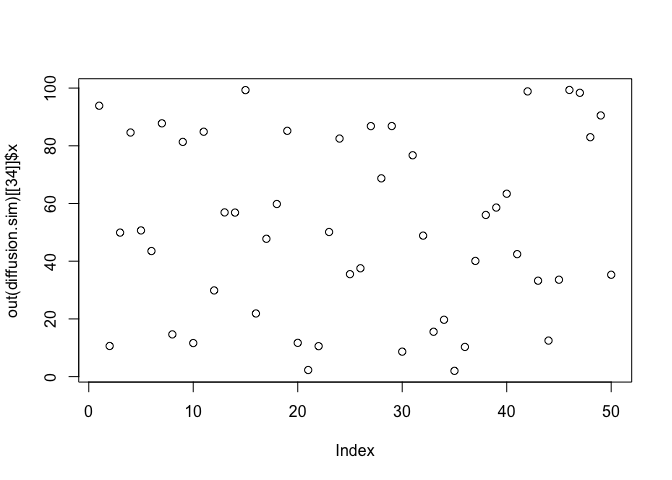
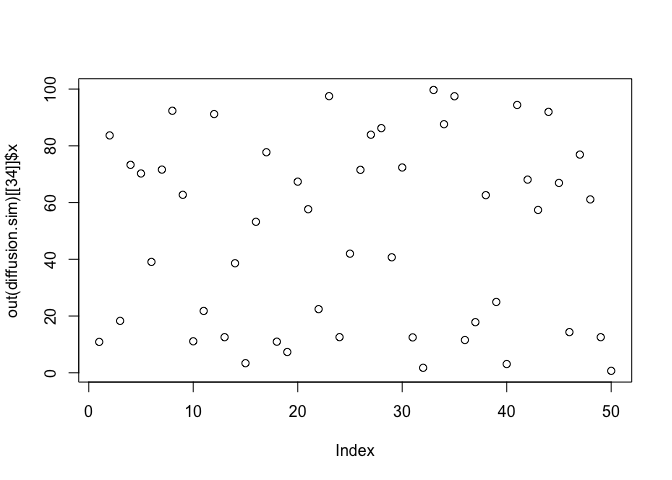
rw

diff --git a/XY-molecular-diffusion/mol-diffusion.md b/XY-molecular-diffusion/mol-diffusion.md
@@ -1,4 +1,4 @@
-simecol XY molecular diffusion
+simecol XY molecular diffusion (random walk)
 ================
 
 ``` r
@@ -64,14 +64,14 @@ diffusion.sim <- sim(diffusion.model)
 out(diffusion.sim)[[34]]$x
 ```
 
-    ##  [1] 93.887670 10.614102 49.914438 84.602027 50.668672 43.520630 87.788387
-    ##  [8] 14.634977 81.345105 11.628150 84.876890 29.873780 56.909006 56.852900
-    ## [15] 99.298494 21.884205 47.773810 59.824620 85.189612 11.697517  2.288108
-    ## [22] 10.557604 50.122237 82.507512 35.515871 37.549386 86.823027 68.719596
-    ## [29] 86.843920  8.651570 76.718315 48.862886 15.548280 19.699804  1.999067
-    ## [36] 10.284221 40.095458 56.028157 58.592138 63.385752 42.450926 98.852328
-    ## [43] 33.239701 12.485594 33.581065 99.352732 98.360780 82.978939 90.517080
-    ## [50] 35.300606
+    ##  [1] 10.885741 83.669403 18.296181 73.294348 70.254538 39.084972 71.612993
+    ##  [8] 92.359621 62.731695 11.097747 21.794119 91.197294 12.543727 38.609391
+    ## [15]  3.379766 53.214167 77.734893 10.958748  7.319485 67.367878 57.653159
+    ## [22] 22.434465 97.511995 12.560244 41.980000 71.533695 83.913634 86.232083
+    ## [29] 40.712220 72.364760 12.469860  1.752888 99.692449 87.625889 97.472081
+    ## [36] 11.545896 17.837459 62.613281 24.962542  3.078355 94.400277 68.085612
+    ## [43] 57.393664 91.967703 66.916186 14.335474 76.902257 61.111829 12.549573
+    ## [50]  0.679925
 
 ``` r
 plot(out(diffusion.sim)[[34]]$x)
@@ -120,12 +120,12 @@ head(points.df)
 ```
 
     ##    vectorX  vectorY rowNum
-    ## 1 93.88767 64.02074      1
-    ## 2 10.61410 54.78129      2
-    ## 3 49.91444 39.57435      3
-    ## 4 84.60203 60.08201      4
-    ## 5 50.66867 37.61715      5
-    ## 6 43.52063 49.71639      6
+    ## 1 10.88574 34.17376      1
+    ## 2 83.66940 86.78902      2
+    ## 3 18.29618 27.53370      3
+    ## 4 73.29435 79.99880      4
+    ## 5 70.25454 56.44146      5
+    ## 6 39.08497 93.04567      6
 
 ``` r
 plotupca(points.df, type="S3")
@@ -180,57 +180,57 @@ head(out(diffusion.sim)[22])
 ```
 
     ## [[1]]
-    ##             x         y         a
-    ## 1  92.8115279 67.150185  443.5656
-    ## 2  10.8653389 54.946450 1358.6927
-    ## 3  51.4662467 41.413291  428.2955
-    ## 4  84.0789899 64.120766  483.9750
-    ## 5  52.7074696 36.738631 2311.4928
-    ## 6  43.5467842 49.032087  906.1624
-    ## 7  89.5410501 30.587882  934.9430
-    ## 8  18.4311573 88.240979  982.5159
-    ## 9  84.6153810 11.142358  488.3203
-    ## 10 14.4464597  1.073512  507.9831
-    ## 11 84.6753262 53.480507  303.0330
-    ## 12 27.3513386 36.507664  776.6470
-    ## 13 58.3494165 30.191982 3250.6291
-    ## 14 55.9536309 71.762441  822.3425
-    ## 15 97.3601460 60.368580  509.9457
-    ## 16 24.5201514 88.279189  432.0262
-    ## 17 50.1247597 71.808527  796.7831
-    ## 18 60.6128069 45.070463  409.9196
-    ## 19 89.2309123 80.133455  616.7629
-    ## 20  9.0869936 24.954402 1798.3477
-    ## 21  3.5835587 68.563317  743.6242
-    ## 22  9.1197251 37.226506  616.7164
-    ## 23 50.4390215 16.398470 5045.8276
-    ## 24 81.3194881 33.996256  302.9749
-    ## 25 38.8653830  6.679220  363.0609
-    ## 26 33.9852919 92.608813  667.7487
-    ## 27 85.4216799 30.167609  773.2242
-    ## 28 65.0577457 14.634646  975.7745
-    ## 29 86.6061390 45.455655  612.3818
-    ## 30  9.5323980 32.072055  873.9226
-    ## 31 79.5251395 85.021567  480.6738
-    ## 32 46.7721454 11.273779  647.4037
-    ## 33 15.1072186 51.265708  513.6387
-    ## 34 22.4909776  1.192019 2080.8587
-    ## 35  1.7855618 52.356964  969.9898
-    ## 36  7.8744096 93.088286  676.4735
-    ## 37 39.3555113 54.162307 1225.1265
-    ## 38 58.8689360 70.690836  540.6730
-    ## 39 58.7794138 35.341709  573.0985
-    ## 40 67.0305046 87.659060  626.3762
-    ## 41 42.0801378 35.413061  260.0677
-    ## 42 98.3625503 50.457942  747.9065
-    ## 43 30.1725710  7.646515  315.7331
-    ## 44 13.0943691 50.384515 1547.3761
-    ## 45 38.7771292 80.270913  775.7924
-    ## 46 97.2460822 25.279540 2009.8684
-    ## 47  0.7734725 27.697393  292.1057
-    ## 48 84.4014991 92.151263  349.8702
-    ## 49 87.0593396 38.960564  947.2335
-    ## 50 34.3313016 77.143566  884.1913
+    ##            x          y           a
+    ## 1   9.904286  38.152910   4460.2538
+    ## 2  86.039838  88.638207    491.6006
+    ## 3  16.473467  25.438553    733.4626
+    ## 4  72.584688  80.103823    421.8601
+    ## 5  73.305582  61.221653    339.5749
+    ## 6  41.672000  92.159517    500.4822
+    ## 7  69.381940  13.957178    651.5095
+    ## 8  92.131543  62.872739    349.2734
+    ## 9  63.055112  32.533073    666.4903
+    ## 10 10.778524  50.269702    376.7374
+    ## 11 23.113349  43.966530    457.0753
+    ## 12 91.691349  48.523113    779.0287
+    ## 13 11.100714  35.694200   1472.8588
+    ## 14 37.166909  96.313340   4199.8139
+    ## 15  2.858997  47.976334   2336.8010
+    ## 16 47.630362   5.069546    350.7921
+    ## 17 83.341325  86.686554    956.8694
+    ## 18 10.215150  51.982006    627.0972
+    ## 19  4.905208  63.385000    575.6021
+    ## 20 69.470302  12.362827   1255.2904
+    ## 21 58.727591  73.699242    499.7505
+    ## 22 22.922085  30.492111    320.8537
+    ## 23 97.422809  92.293818 677998.4484
+    ## 24 13.317590  41.227923    606.2760
+    ## 25 43.491548  21.727839    431.8421
+    ## 26 69.921589  10.091484    461.2886
+    ## 27 83.732071  47.325711    622.8063
+    ## 28 87.923358  83.450409    706.8117
+    ## 29 40.891840  44.530141   2576.3925
+    ## 30 71.054676  50.707806    720.1488
+    ## 31 11.371174  83.543102   2581.9899
+    ## 32  1.980028  51.852527    623.3055
+    ## 33 99.216681  31.758016    699.7441
+    ## 34 89.045267   1.513541   1417.7442
+    ## 35 96.473925  50.069068    974.3295
+    ## 36 11.783992   2.206031    382.2608
+    ## 37 19.812798  92.780180   1552.3858
+    ## 38 61.950298  93.520303    668.3841
+    ## 39 25.255545  54.635157    371.6589
+    ## 40  3.786678  63.569945    518.8582
+    ## 41 93.263712  44.818077    323.1941
+    ## 42 68.324898  44.913098   1653.7419
+    ## 43 55.359178  18.740780    369.8915
+    ## 44 91.807412  53.484279   1984.6272
+    ## 45 66.741517  20.732597    293.5253
+    ## 46 15.691627   8.811674    711.4888
+    ## 47 74.885948   8.505724    708.6987
+    ## 48 61.295577 100.000000    363.4866
+    ## 49 12.575562   8.959802    355.5578
+    ## 50 99.805539  23.526666   1300.6031
 
 ``` r
 main(diffusion.sim)
@@ -269,57 +269,57 @@ main(diffusion.sim)
 init(diffusion.sim)
 ```
 
-    ##             x          y          a
-    ## 1  96.6837892 72.3802459 3.42343636
-    ## 2   8.0607088 58.6081386 3.61389941
-    ## 3  51.4454911 42.4669673 1.98337057
-    ## 4  85.8473902 60.3399507 3.40249668
-    ## 5  54.2878587 34.2254267 1.18909050
-    ## 6  43.4677323 48.6499865 1.53173188
-    ## 7  91.3518906 30.8777934 4.32273235
-    ## 8  20.1077155 85.9322719 5.62629917
-    ## 9  83.1347034 11.4259902 2.78340979
-    ## 10 13.2921479 97.5707667 4.05222458
-    ## 11 86.2560858 56.0162768 5.96411096
-    ## 12 28.0797262 36.0701595 2.90264475
-    ## 13 63.9330334 28.7136694 1.95902276
-    ## 14 57.1656263 68.9779693 4.02652874
-    ## 15 97.4100678 63.4191709 3.25590990
-    ## 16 25.2565741 89.4130633 6.00782689
-    ## 17 45.3616297 70.3927562 5.42168772
-    ## 18 59.7052652 43.6289638 4.58029143
-    ## 19 89.8344817 78.4480865 3.01281572
-    ## 20  7.7234968 20.6089883 2.71072126
-    ## 21  0.8148355 69.5625964 5.14215171
-    ## 22  7.8262640 39.5963667 2.15026455
-    ## 23 47.4086439 13.6123480 1.03712498
-    ## 24 84.1557111 41.6433571 0.67551695
-    ## 25 38.0682928  4.5200558 5.90220287
-    ## 26 31.1922881 92.0602235 2.07649466
-    ## 27 83.5987012 28.1767989 3.59010329
-    ## 28 67.2457008 11.2168313 0.05093947
-    ## 29 87.8136175 44.2619345 4.67171984
-    ## 30  4.7075144 30.0093229 3.22124266
-    ## 31 80.6597821 83.7301815 0.16150145
-    ## 32 48.5166611 10.5151411 4.64089246
-    ## 33 15.7315961 51.7840460 1.14368047
-    ## 34 21.8465430  3.4258324 0.89511095
-    ## 35  1.9777421 52.6787221 3.33087280
-    ## 36  6.0588924  0.7798484 2.02162670
-    ## 37 38.2010697 54.0751056 1.23432186
-    ## 38 59.1872156 74.1653385 5.80982025
-    ## 39 59.3730047 35.6564952 6.23393914
-    ## 40 77.5786434 87.7060983 4.63226625
-    ## 41 40.9541444 37.7530210 0.81056113
-    ## 42 98.1780624 50.6777092 0.16801869
-    ## 43 25.1719357 11.9921925 0.34476896
-    ## 44 12.6200227 50.2760211 2.27338717
-    ## 45 39.7723149 76.3182758 5.06928632
-    ## 46 95.8416580 25.3483289 2.84385828
-    ## 47  8.5199464 21.2011308 5.71083699
-    ## 48 84.7852051 88.1158848 4.17727152
-    ## 49 91.3550290 41.4858111 2.85136307
-    ## 50 38.2517001 77.5674562 1.68274123
+    ##              x         y          a
+    ## 1  11.51367584 42.343733 3.80553934
+    ## 2  80.41044753 82.087925 0.50471829
+    ## 3  19.52366978 25.800379 2.44874195
+    ## 4  70.92901058 83.219835 5.15400322
+    ## 5  74.38716008 60.071659 2.25078039
+    ## 6  45.42285865 93.222312 3.95235351
+    ## 7  69.29529742 15.106208 0.56040624
+    ## 8  97.35064150 65.854928 5.33685412
+    ## 9  63.72259946 33.004535 5.47427265
+    ## 10 11.74330940 50.291628 1.75540812
+    ## 11 26.45134991 38.704685 0.09382701
+    ## 12 90.77757765 48.568390 6.21585088
+    ## 13 16.94570868 29.518710 5.98024536
+    ## 14 37.11152007 91.364190 4.55094561
+    ## 15  3.14037064 48.633881 3.68534549
+    ## 16 46.78738061  7.763693 0.82107303
+    ## 17 86.48695978 85.624436 4.67180773
+    ## 18 10.90985956 51.381586 3.03460412
+    ## 19  0.05020567 61.425194 3.62198057
+    ## 20 69.69837253  7.639765 0.73166187
+    ## 21 63.80575302 73.970218 2.15707872
+    ## 22 21.23060238 28.433255 2.63912772
+    ## 23 95.40393329 95.420043 4.59189654
+    ## 24 10.93568329 41.478924 3.95428737
+    ## 25 47.04444632 25.576408 4.43245930
+    ## 26 68.32919887  5.680803 0.25736731
+    ## 27 83.05855840 47.088853 0.03295166
+    ## 28 87.84439249 87.045895 5.26988756
+    ## 29 43.11840474 41.792970 2.48784507
+    ## 30 70.45226609 51.389379 3.09274640
+    ## 31 14.25960257 86.957212 6.16065118
+    ## 32  2.78800349 51.848876 2.17096616
+    ## 33 95.76363196 31.557081 5.57663273
+    ## 34 86.90573603  1.981344 5.12534603
+    ## 35 96.19896994 50.177821 0.82277352
+    ## 36  9.51719952  5.820337 4.67467120
+    ## 37 19.75034627 93.394527 2.27971349
+    ## 38 64.10772353  1.434153 2.61972686
+    ## 39 25.44009876 56.381874 3.60083913
+    ## 40 10.08476634 65.203320 6.12234621
+    ## 41 93.54828261 43.853994 2.48665680
+    ## 42 68.03725860 44.704534 4.14509183
+    ## 43 51.11922307 20.307156 4.34974669
+    ## 44 93.12838861 53.602419 1.83340407
+    ## 45 71.32325284 22.832901 5.87316925
+    ## 46 14.36203083 14.341441 0.65693216
+    ## 47 76.58859410  2.804629 2.68748868
+    ## 48 63.74177441 98.557079 0.74001496
+    ## 49 17.56891161  7.370317 2.49826884
+    ## 50 95.22198534 23.331724 4.32955004
 
 ``` r
 parms(diffusion.sim)
